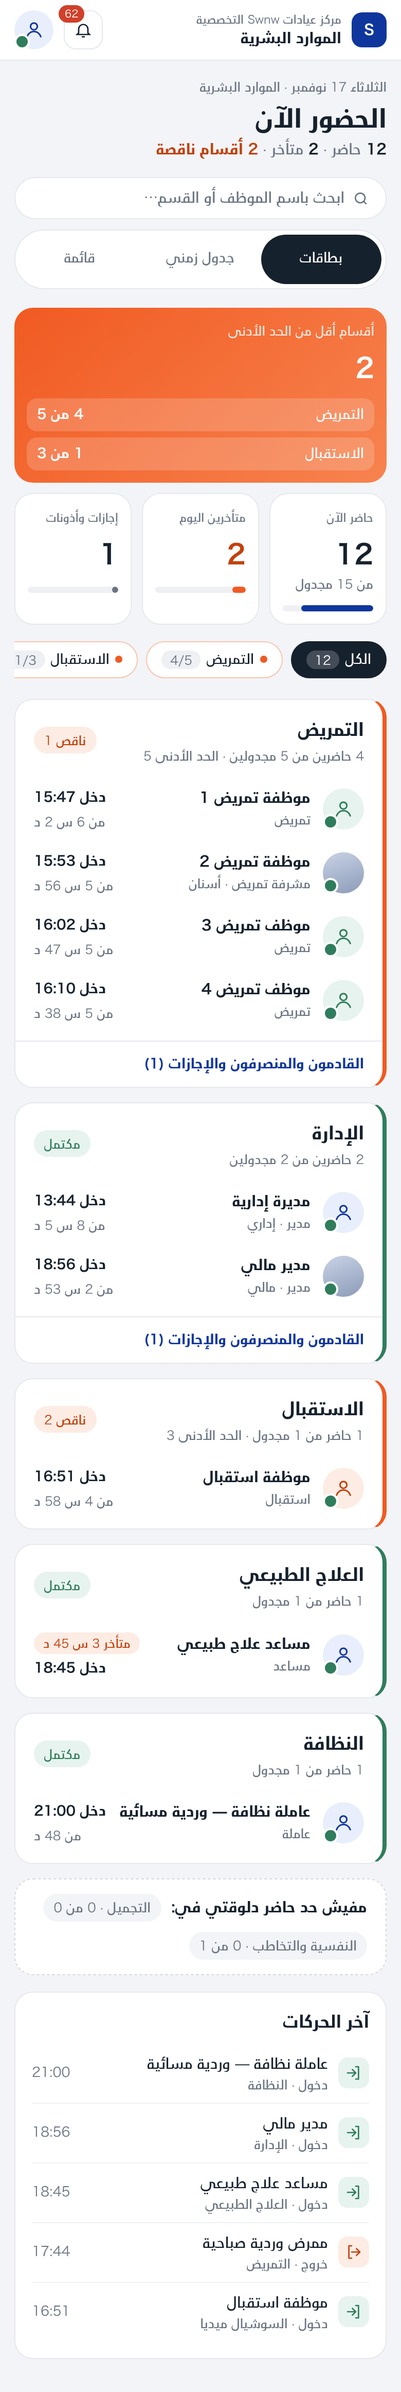
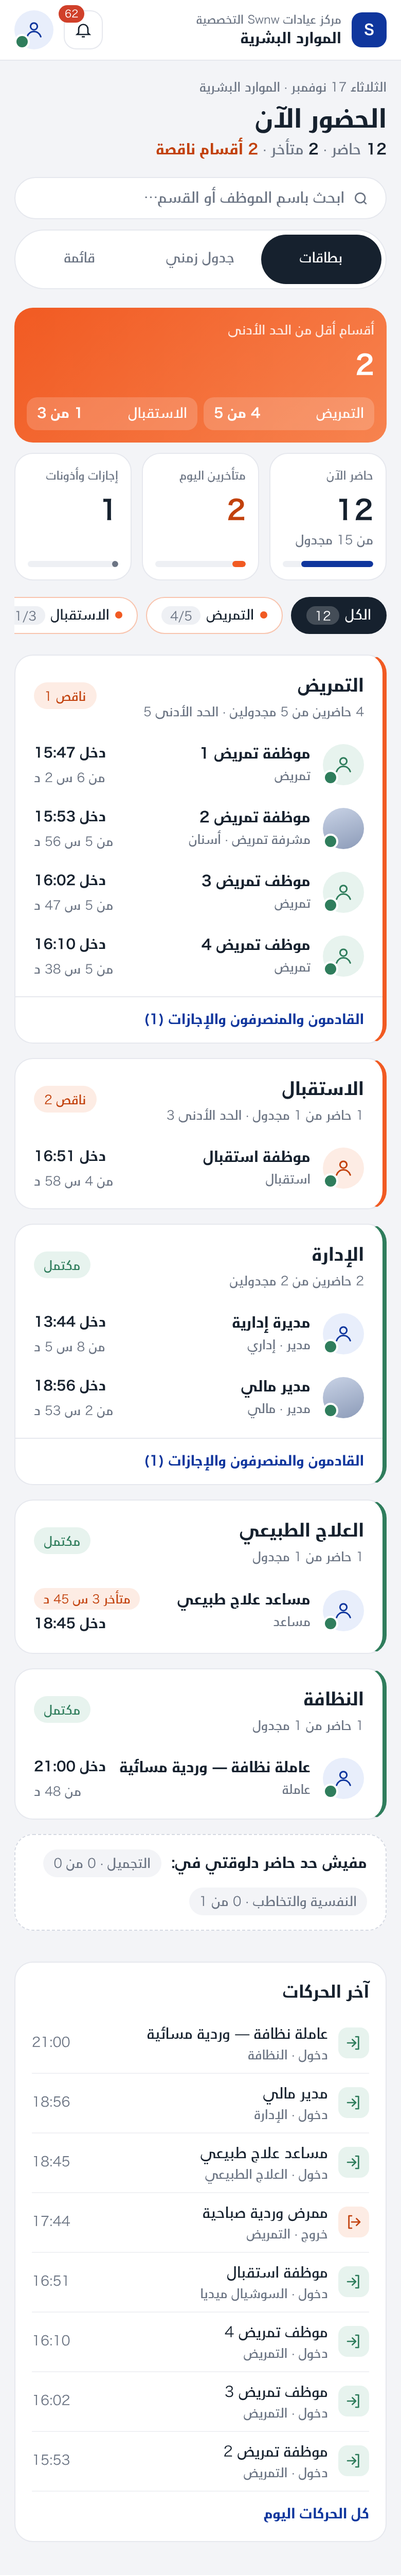
docs: HR presence mockup — masonry cards, sticky movements panel, compact KPI row
Claude-Session: https://claude.ai/code/session_01UqVZHZihapbfrPRQkyZErA

diff --git a/docs/ui-references/mockups/hr-presence.html b/docs/ui-references/mockups/hr-presence.html
@@ -50,7 +50,7 @@ main{max-width:1320px;margin:0 auto;padding:22px 24px 40px}
 @keyframes fill{from{width:0}}
 .k.hero{background:linear-gradient(135deg,#F15A22,#F7834F);color:#fff;border:0}
 .k.hero small{color:rgba(255,255,255,.85)}
-.k.hero .list{margin-top:10px;display:flex;flex-direction:column;gap:6px}
+.k.hero .list{margin-top:auto;display:flex;flex-wrap:wrap;gap:6px}.k.hero .list span{flex:1;gap:10px;white-space:nowrap}
 .k.hero .list span{background:rgba(255,255,255,.18);border-radius:10px;padding:6px 10px;display:flex;justify-content:space-between;font-size:13px}
 /* chips */
 .chips{display:flex;gap:8px;overflow-x:auto;padding-bottom:4px;margin-bottom:16px;scrollbar-width:none}
@@ -62,7 +62,11 @@ main{max-width:1320px;margin:0 auto;padding:22px 24px 40px}
 .chip .dot{width:7px;height:7px;border-radius:50%;background:var(--orange)}
 /* layout */
 .grid{display:grid;grid-template-columns:1fr 330px;gap:16px;align-items:start}
-.depts{display:grid;grid-template-columns:repeat(auto-fill,minmax(330px,1fr));gap:14px;align-items:start}
+/* masonry: cards stack in columns so short cards never leave holes */
+.depts{columns:2 330px;column-gap:14px}
+.depts>*{break-inside:avoid;margin-bottom:14px;display:block}
+.side{position:sticky;top:16px}
+.k{display:flex;flex-direction:column}.k .bar{margin-top:auto}.k .n{margin-bottom:12px}
 .dept{background:var(--card);border:1px solid var(--line);border-radius:var(--r);overflow:hidden;transition:transform .18s ease,box-shadow .18s ease;border-inline-start:4px solid var(--pos)}
 .dept.short{border-inline-start-color:var(--orange)}
 .dh{display:flex;justify-content:space-between;align-items:center;padding:16px 18px 12px}
@@ -104,7 +108,7 @@ main{max-width:1320px;margin:0 auto;padding:22px 24px 40px}
   .kpis{grid-template-columns:1fr 1fr}
   .k.hero{grid-column:1/-1}
   .grid{grid-template-columns:1fr}
-  .depts{grid-template-columns:1fr}
+  .depts{columns:1}.side{position:static}
   main{padding:16px 14px 32px}
   .top{padding:10px 14px}
   .ph h1{font-size:24px}
@@ -187,6 +191,13 @@ main{max-width:1320px;margin:0 auto;padding:22px 24px 40px}
           <a class="more">القادمون والمنصرفون والإجازات (1)</a>
         </article>
 
+        <article class="dept short">
+          <div class="dh"><div><b>الاستقبال</b><small>1 حاضر من 1 مجدول · الحد الأدنى 3</small></div><span class="st bad">ناقص 2</span></div>
+          <ul class="rows">
+            <li class="row"><span class="av" style="--c:#FDECE4;--cs:#C2410C"><svg><use href="#person"/></svg></span><div class="nm"><span class="t">موظفة استقبال</span><small>استقبال</small></div><div class="meta"><b>دخل 16:51</b><span>من 4 س 58 د</span></div></li>
+          </ul>
+        </article>
+
         <article class="dept">
           <div class="dh"><div><b>الإدارة</b><small>2 حاضرين من 2 مجدولين</small></div><span class="st ok">مكتمل</span></div>
           <ul class="rows">
@@ -194,13 +205,6 @@ main{max-width:1320px;margin:0 auto;padding:22px 24px 40px}
             <li class="row"><span class="av photo"></span><div class="nm"><span class="t">مدير مالي</span><small>مدير · مالي</small></div><div class="meta"><b>دخل 18:56</b><span>من 2 س 53 د</span></div></li>
           </ul>
           <a class="more">القادمون والمنصرفون والإجازات (1)</a>
-        </article>
-
-        <article class="dept short">
-          <div class="dh"><div><b>الاستقبال</b><small>1 حاضر من 1 مجدول · الحد الأدنى 3</small></div><span class="st bad">ناقص 2</span></div>
-          <ul class="rows">
-            <li class="row"><span class="av" style="--c:#FDECE4;--cs:#C2410C"><svg><use href="#person"/></svg></span><div class="nm"><span class="t">موظفة استقبال</span><small>استقبال</small></div><div class="meta"><b>دخل 16:51</b><span>من 4 س 58 د</span></div></li>
-          </ul>
         </article>
 
         <article class="dept">
@@ -216,9 +220,9 @@ main{max-width:1320px;margin:0 auto;padding:22px 24px 40px}
             <li class="row"><span class="av"><svg><use href="#person"/></svg></span><div class="nm"><span class="t">عاملة نظافة — وردية مسائية</span><small>عاملة</small></div><div class="meta"><b>دخل 21:00</b><span>من 48 د</span></div></li>
           </ul>
         </article>
-      </div>
 
-      <div class="empty" style="margin-top:14px"><b>مفيش حد حاضر دلوقتي في:</b><span class="tag">التجميل · 0 من 0</span><span class="tag">النفسية والتخاطب · 0 من 1</span></div>
+      <div class="empty"><b>مفيش حد حاضر دلوقتي في:</b><span class="tag">التجميل · 0 من 0</span><span class="tag">النفسية والتخاطب · 0 من 1</span></div>
+      </div>
     </div>
 
     <aside class="side">
@@ -228,6 +232,10 @@ main{max-width:1320px;margin:0 auto;padding:22px 24px 40px}
       <div class="mv"><span class="ic in"><svg><use href="#in"/></svg></span><div class="tx">مساعد علاج طبيعي<small>دخول · العلاج الطبيعي</small></div><time>18:45</time></div>
       <div class="mv"><span class="ic out"><svg><use href="#out"/></svg></span><div class="tx">ممرض وردية صباحية<small>خروج · التمريض</small></div><time>17:44</time></div>
       <div class="mv"><span class="ic in"><svg><use href="#in"/></svg></span><div class="tx">موظفة استقبال<small>دخول · السوشيال ميديا</small></div><time>16:51</time></div>
+      <div class="mv"><span class="ic in"><svg><use href="#in"/></svg></span><div class="tx">موظف تمريض 4<small>دخول · التمريض</small></div><time>16:10</time></div>
+      <div class="mv"><span class="ic in"><svg><use href="#in"/></svg></span><div class="tx">موظف تمريض 3<small>دخول · التمريض</small></div><time>16:02</time></div>
+      <div class="mv"><span class="ic in"><svg><use href="#in"/></svg></span><div class="tx">موظفة تمريض 2<small>دخول · التمريض</small></div><time>15:53</time></div>
+      <a class="more" style="padding:12px 0 0;border-top:0">كل الحركات اليوم</a>
     </aside>
   </div>
 </main>
